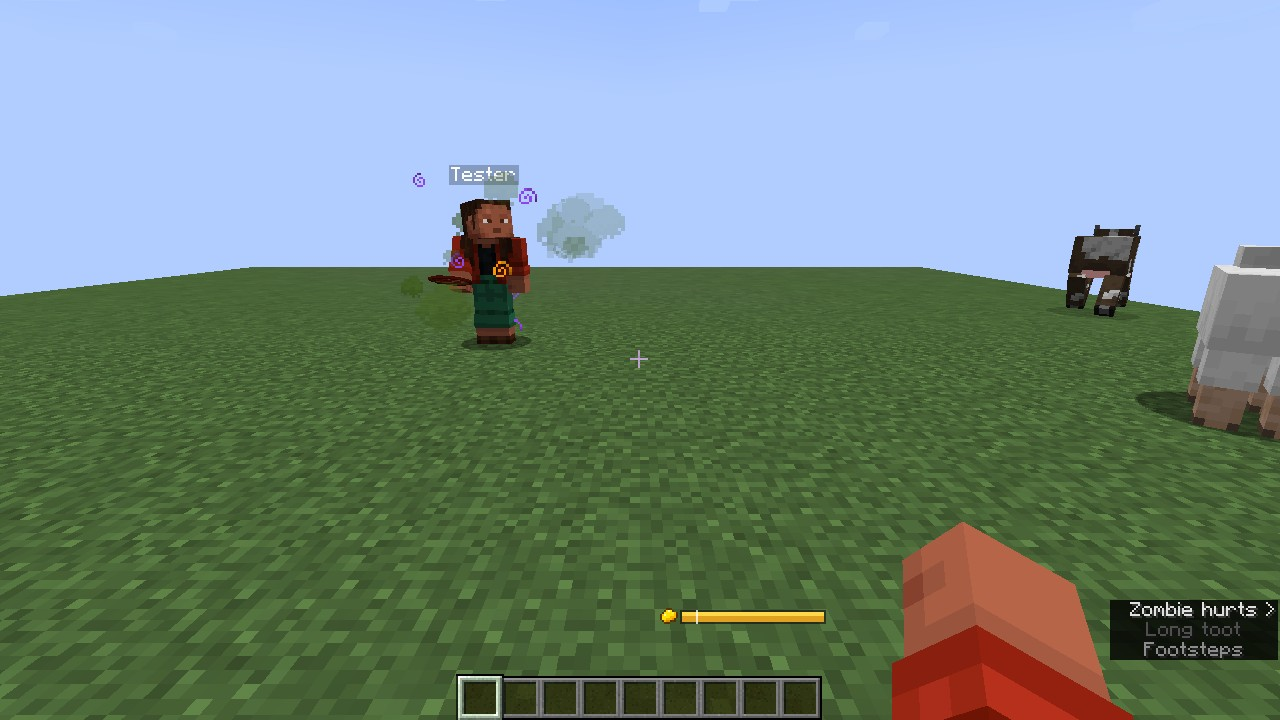
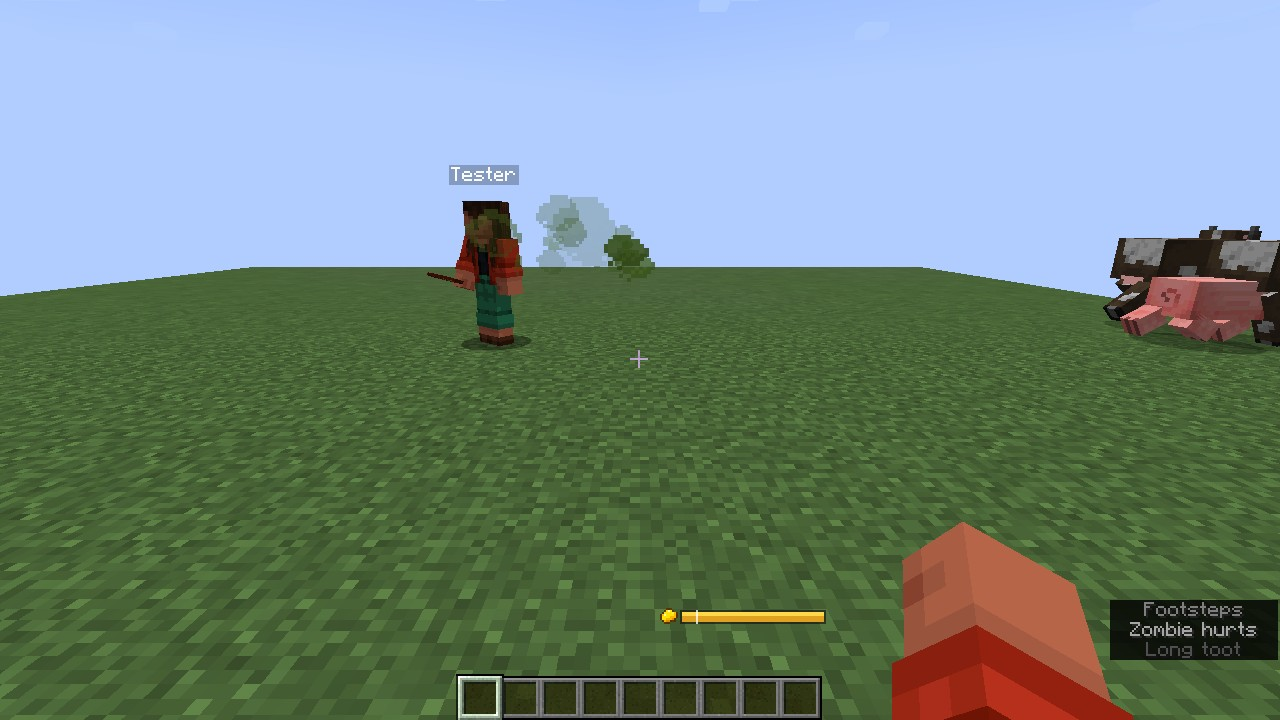
Big shared combo cloud, no effect swirls, listing media re-recorded on soft puffs only
- Combo: one large merged cloud spanning the players (30 + 22 per player big soft puffs in a dome, 3.5-4 s,
  rising), tinted with a blend of the members' colours pulled towards the gas green; ComboS2C carries the
  members; the server's area spans the players too (radius >= farthest player + 1.5, grows with N).
- Golden toot glows with pale-gold puffs instead of sparks; effects from cloud.effects hide their particles.
- duo.py: both players on the soft puff (no snowflakes), effects cleared before shots (the swirls came from the
  enchanted golden apple and test effects carried over between runs), the together shot framed from the front.
- Test rig: `/fart testcombo <player> <n>` stand-in participants, only with -Dfarmstead.testhooks on the server
  (-PtestHooks); -PclientXmx for many clients.
- GIFs, gallery, banner (GIF 3.5 MB), CurseForge gallery, wiki pages regenerated.

Changed region(s): [[0.8125, 0.3056, 1.0, 0.6111], [0.3125, 0.2444, 0.5312, 0.4889], [0.875, 0.825, 1.0, 0.9167]]

diff --git a/src/main/java/online/farmsteadminecraft/farttogether/client/Toots.java b/src/main/java/online/farmsteadminecraft/farttogether/client/Toots.java
@@ -101,8 +101,10 @@ public final class Toots {
                 SIZE[tier], JET_BLAST, new int[]{5}));
         }
         if ((flags & Proto.GOLDEN) != 0) {
-            CLOUDS.add(new Cloud(who, style.withShape(Style.Shape.SPARKS), new Random(seed ^ 0x6A09E667L), 3, hue, own,
-                1f, 0, new int[]{ticks + 6}));
+            // a few extra pale-gold puffs make it glow (soft puffs, no sparks: owner's rule for the default look)
+            Style shine = new Style(Style.ColorMode.SOLID, GOLD_LIGHT, GOLD_LIGHT, Style.Shape.PUFF, style.size(), 1f, 1f, 1f,
+                style.sound(), 1f, 1f, Style.Pose.NONE);
+            CLOUDS.add(new Cloud(who, shine, new Random(seed ^ 0x6A09E667L), 1, hue, own, 1.2f, 0, new int[]{ticks / 2 + 2}));
         }
         if (cloud != null && linger > 0 && radius > 0 && ClientConfig.LINGER.on()) {
             LINGERS.add(new Linger(cloud, radius, style, new Random(seed ^ 0x5DEECE66DL), hue, own, new int[]{linger}));
@@ -113,7 +115,7 @@ public final class Toots {
      * Fart Together: {@code count} players tooted together. The chorus (one more layered sound per player, up to
      * three), a ring of colourful puffs bursting out of the centre and the big shared cloud lingering there.
      */
-    public static void combo(Minecraft mc, int count, long seed, Vec3 pos, float radius, int linger) {
+    public static void combo(Minecraft mc, int count, long seed, Vec3 pos, float radius, int linger, int color) {
         if (mc.level == null) return;
         Random rnd = new Random(seed);
         float volume = ClientConfig.VOLUME.floatValue();
@@ -124,16 +126,27 @@ public final class Toots {
                 mc.level.playLocalSound(pos.x, pos.y, pos.z, event, SoundSource.PLAYERS, volume, 0.85f + 0.12f * i, false);
             }
         }
-        if (TestHooks.enabled()) FartTogether.LOGGER.info("test: combo count={} radius={} linger={}", count, radius, linger);
-        int ring = Math.max(1, Math.round(Math.min(40, 8 + 4 * count) * ClientConfig.PARTICLES.floatValue()));
-        for (int i = 0; i < ring; i++) {
-            double a = Math.PI * 2 * i / ring;
-            double speed = 0.04 + rnd.nextDouble() * 0.03;
-            puff(mc, pos.x, pos.y + 0.2, pos.z, Math.cos(a) * speed, 0.01 + rnd.nextDouble() * 0.015, Math.sin(a) * speed,
-                Colors.lerp(Colors.hue((float) i / ring), 0xFFFFFF, 0.45f), 1.6f, rnd);
+        if (TestHooks.enabled()) {
+            FartTogether.LOGGER.info("test: combo count={} radius={} linger={} color={}", count, radius, linger, Integer.toHexString(color));
         }
-        if (linger > 0 && radius > 0 && ClientConfig.LINGER.on()) {
-            LINGERS.add(new Linger(pos, radius, Style.SIMPLE, new Random(seed ^ 0x5DEECE66DL), rnd.nextFloat(), true, new int[]{linger}));
+        // one big merged cloud spanning the players: many large soft puffs filling a flattened dome around the centre,
+        // rising slowly and fading over three to four seconds (several times the volume of a single toot)
+        // the dome hugs the players: about the server's area, a little tighter so a camera next to them stays outside
+        double r = Math.min(6.0, Math.max(2.0, (radius > 0 ? radius : 2.5 + count) * 0.7));
+        // the players' colours, pulled towards the gas green so the shared cloud still reads as gas
+        int gas = Colors.lerp(color, Style.DEFAULT_COLOR, 0.45f);
+        int puffs = Math.round(Math.min(160, 30 + 22 * count) * ClientConfig.PARTICLES.floatValue());
+        for (int i = 0; i < puffs; i++) {
+            double x, y, z;
+            do {
+                x = rnd.nextDouble() * 2 - 1;
+                y = rnd.nextDouble();
+                z = rnd.nextDouble() * 2 - 1;
+            } while (x * x + y * y + z * z > 1);
+            int tint = Colors.lerp(gas, 0xFFFFFF, rnd.nextFloat() * 0.18f);
+            bigPuff(mc, pos.x + x * r, pos.y - 0.3 + y * r * 0.6, pos.z + z * r,
+                x * 0.01, 0.006 + rnd.nextDouble() * 0.01, z * 0.01, tint, 1.3f + rnd.nextFloat() * 0.7f, rnd,
+                70 + rnd.nextInt(14) + Math.min(40, linger / 4));
         }
     }
 
@@ -217,6 +230,18 @@ public final class Toots {
         if (particle == null) return;
         if (type != ParticleTypes.NOTE && type != ParticleTypes.HEART) tint(particle, color(s, c.hue(), r));
         particle.scale(s.size() * c.size());
+    }
+
+    /** A combo puff: like {@link #puff} but big and with its own lifetime. */
+    private static void bigPuff(Minecraft mc, double x, double y, double z, double dx, double dy, double dz, int rgb,
+                                float size, Random r, int life) {
+        if (mc.player != null && mc.options.getCameraType().isFirstPerson()
+            && mc.player.getEyePosition().distanceToSqr(x, y, z) < 2.2 * 2.2) return;
+        Particle particle = mc.particleEngine.createParticle(PUFF, x, y, z, dx, dy, dz);
+        if (particle == null) return;
+        tint(particle, rgb);
+        particle.scale(size);
+        particle.setLifetime(life);
     }
 
     /**

diff --git a/tools/duo.py b/tools/duo.py
@@ -51,7 +51,7 @@ A, B = "Tester", "Tester2"
 CFG = "farmstead_fart_together-client.toml"
 
 STYLE_A = {"color": '"pumpkin"', "particle": '"puff"', "size": "1.4", "amount": "1.6", "sound": '"trumpet"', "pose": '"classic"'}
-STYLE_B = {"color": '"lilac"', "particle": '"snow"', "size": "1.0", "amount": "1.4", "sound": '"squeaky"', "pose": '"hero"'}
+STYLE_B = {"color": '"lilac"', "particle": '"puff"', "size": "1.2", "amount": "1.4", "sound": '"squeaky"', "pose": '"hero"'}
 
 
 def client_file(style: dict, others: str = "theirs") -> str:
@@ -128,7 +128,7 @@ def main() -> int:
         cb = client(B, dir_b, ["-PclientDir=client2"])
         time.sleep(8)
 
-        for c in ("gamerule doMobSpawning false", "time set noon", "gamerule doDaylightCycle false", "weather clear",
+        for c in ("effect clear @a", "gamerule doMobSpawning false", "time set noon", "gamerule doDaylightCycle false", "weather clear",
                   f"fill -6 {Y - 1} -6 6 {Y - 1} 6 grass_block", f"fill -6 {Y} -6 6 {Y + 5} 6 air", "kill @e[type=!player]",
                   f"gamemode creative {A}", f"gamemode creative {B}"):
             rcon.cmd(c)
@@ -338,7 +338,7 @@ def m3(rcon, dir_a: Path, dir_b: Path, sa, sb, out: Path, server) -> None:
     rcon.cmd(f"fart charge {A} full")
     time.sleep(1)
     # a full hold takes 1.6 s: slow falling keeps Tester in the air that long (it wears off before the toot)
-    rcon.cmd(f"effect give {A} minecraft:slow_falling 3")
+    rcon.cmd(f"effect give {A} minecraft:slow_falling 3 0 true")  # hidden particles
     rcon.cmd(f"tp {A} 0.5 {Y + 9} 0.5 0 0")
     rcon.cmd(f"tp {B} 8.5 {Y} 0.5 90 -22")
     rec(dir_b, "jet", 4)
@@ -359,13 +359,16 @@ def m3(rcon, dir_a: Path, dir_b: Path, sa, sb, out: Path, server) -> None:
     rcon.cmd(f"tp {A} 0.5 {Y} 0.5 0 0")
     rcon.cmd(f"tp {B} 4.5 {Y} -0.5 90 10")
     rcon.cmd(f"gamemode survival {A}")
-    rcon.cmd(f"effect give {A} minecraft:hunger 3 255")
+    rcon.cmd(f"effect give {A} minecraft:hunger 3 255 true")
     time.sleep(3.2)
     rcon.cmd(f"item replace entity {A} hotbar.0 with minecraft:enchanted_golden_apple")
     hook(dir_a, "camera", "first")
     time.sleep(0.5)
     hook(dir_a, "use", "45")
     time.sleep(3.2)
+    # the apple's own effects (regeneration, absorption...) swirl around the player: not ours, cleared for the shot;
+    # the golden gas stays (it is the mod's flag, not an effect)
+    rcon.cmd(f"effect clear {A}")
     rcon.cmd(f"gamemode creative {A}")
     hook(dir_a, "camera", "back")
     rcon.cmd(f"fart charge {A} full")
@@ -376,6 +379,7 @@ def m3(rcon, dir_a: Path, dir_b: Path, sa, sb, out: Path, server) -> None:
     sb.shot("14-b-golden")
     time.sleep(3)
 
+    rcon.cmd("effect clear @a")
     print("15. under water")
     rcon.cmd(f"fill 7 {Y - 1} -5 17 {Y + 5} 5 glass")
     rcon.cmd(f"fill 8 {Y} -4 16 {Y + 4} 4 water")
@@ -390,23 +394,25 @@ def m3(rcon, dir_a: Path, dir_b: Path, sa, sb, out: Path, server) -> None:
     rcon.cmd(f"fill 7 {Y} -5 17 {Y + 5} 5 air")
     rcon.cmd(f"fill 7 {Y - 1} -5 17 {Y - 1} 5 grass_block")
 
+    rcon.cmd("effect clear @a")
     print("16. Fart Together: both at once")
-    rcon.cmd(f"tp {A} -1.0 {Y} 0.5 0 0")
-    rcon.cmd(f"tp {B} 2.0 {Y} 0.5 0 0")
+    # side by side facing the same way; Tester2's front camera looks back at both, the shared cloud rises behind them
+    rcon.cmd(f"tp {A} -0.4 {Y} 0.5 0 0")
+    rcon.cmd(f"tp {B} 1.4 {Y} 0.5 0 0")
     rcon.cmd(f"fart charge {A} full")
     rcon.cmd(f"fart charge {B} full")
     hook(dir_a, "camera", "back")
-    hook(dir_b, "camera", "back")
+    hook(dir_b, "camera", "front")
     time.sleep(1.5)
-    hook(dir_a, "toot", "900")
-    rec(dir_b, "together", 5)
-    hook(dir_b, "toot", "1000")
-    time.sleep(1.4)
+    rec(dir_b, "together", 6)
+    hook(dir_a, "toot", "1500")
+    hook(dir_b, "toot", "1600")
+    time.sleep(2.3)
     sb.shot("16-b-together")
     sa.shot("16-a-together")
-    time.sleep(1.5)
+    time.sleep(1.2)
     sb.shot("16-b-together-cloud")
-    time.sleep(2)
+    time.sleep(3)
 
     print("17-18. advancements, trades, loot")
     log = "".join(server.lines)

diff --git a/src/main/java/online/farmsteadminecraft/farttogether/net/Proto.java b/src/main/java/online/farmsteadminecraft/farttogether/net/Proto.java
@@ -61,10 +61,13 @@ public final class Proto {
 
     /**
      * Fart Together: {@code count} players tooted together near {@code x y z}; every receiver plays the chorus and
-     * draws the big shared cloud ({@code radius}, {@code lingerTicks}) from the same {@code seed}.
+     * draws the big shared cloud ({@code radius}, {@code lingerTicks}) from the same {@code seed}, tinted with a blend
+     * of the {@code members}' colours (at most {@link #MAX_MEMBERS} of them are sent).
      */
-    public record ComboS2C(int count, long seed, float x, float y, float z, float radius, int lingerTicks)
-        implements ToClient {}
+    public record ComboS2C(int count, long seed, float x, float y, float z, float radius, int lingerTicks,
+                           java.util.List<UUID> members) implements ToClient {}
+
+    public static final int MAX_MEMBERS = 8;
 
     /** This player's gas: {@code charge} of {@code max}; a toot needs {@code min} (0 when gas is not required). */
     public record ChargeS2C(int charge, int max, int min, boolean enabled) implements ToClient {}
@@ -116,6 +119,9 @@ public final class Proto {
             buf.writeFloat(m.z());
             buf.writeFloat(m.radius());
             buf.writeVarInt(m.lingerTicks());
+            int n = Math.min(MAX_MEMBERS, m.members().size());
+            buf.writeVarInt(n);
+            for (int i = 0; i < n; i++) buf.writeUUID(m.members().get(i));
         } else if (msg instanceof ChargeS2C m) {
             buf.writeByte(CHARGE);
             buf.writeVarInt(m.charge());
@@ -154,8 +160,7 @@ public final class Proto {
                 case HELLO -> new HelloS2C(buf.readVarInt(), buf.readVarInt(), buf.readVarInt());
                 case TOOT -> new TootS2C(buf.readUUID(), buf.readVarInt(), buf.readLong(), buf.readFloat(), buf.readFloat(),
                     buf.readFloat(), buf.readFloat(), buf.readVarInt(), buf.readVarInt());
-                case COMBO -> new ComboS2C(buf.readVarInt(), buf.readLong(), buf.readFloat(), buf.readFloat(), buf.readFloat(),
-                    buf.readFloat(), buf.readVarInt());
+                case COMBO -> readCombo(buf);
                 case STYLE -> new StyleS2C(buf.readUUID(), Style.read(buf));
                 case CHARGE -> new ChargeS2C(buf.readVarInt(), buf.readVarInt(), buf.readVarInt(), buf.readBoolean());
                 default -> null;
@@ -163,6 +168,17 @@ public final class Proto {
         } catch (RuntimeException e) {
             return null;
         }
+    }
+
+    private static ComboS2C readCombo(FriendlyByteBuf buf) {
+        int count = buf.readVarInt();
+        long seed = buf.readLong();
+        float x = buf.readFloat(), y = buf.readFloat(), z = buf.readFloat(), radius = buf.readFloat();
+        int linger = buf.readVarInt();
+        int n = Math.min(MAX_MEMBERS, buf.readVarInt());
+        java.util.List<UUID> members = new java.util.ArrayList<>();
+        for (int i = 0; i < n; i++) members.add(buf.readUUID());
+        return new ComboS2C(count, seed, x, y, z, radius, linger, members);
     }
 
     private static byte[] bytes(FriendlyByteBuf buf) {

diff --git a/src/main/java/online/farmsteadminecraft/farttogether/server/Together.java b/src/main/java/online/farmsteadminecraft/farttogether/server/Together.java
@@ -18,7 +18,8 @@ import net.minecraft.world.phys.Vec3;
  * the advancements for 2, 4 and 8. Server thread only.
  */
 public final class Together {
-    private record Toot(UUID who, ServerLevel level, Vec3 pos, long at) {}
+    /** {@code fake}: a stand-in participant from {@code /fart testcombo} (test rig only, see {@link #injectFake}). */
+    private record Toot(UUID who, ServerLevel level, Vec3 pos, long at, boolean fake) {}
 
     private static final List<Toot> RECENT = new ArrayList<>();
 
@@ -33,18 +34,24 @@ public final class Together {
         long window = (long) (ServerConfig.TOGETHER_WINDOW.value() * 1000);
         RECENT.removeIf(t -> nowMillis - t.at() > window);
         RECENT.removeIf(t -> t.who().equals(player.getUUID()));
-        RECENT.add(new Toot(player.getUUID(), level, pos, nowMillis));
+        RECENT.add(new Toot(player.getUUID(), level, pos, nowMillis, false));
         double r = ServerConfig.TOGETHER_RADIUS.value();
         Map<UUID, ServerPlayer> members = new LinkedHashMap<>();
+        int fakes = 0;
         Vec3 sum = Vec3.ZERO;
         for (Toot t : RECENT) {
             if (t.level() != level || t.pos().distanceToSqr(pos) > r * r) continue;
+            if (t.fake()) {
+                fakes++;
+                sum = sum.add(t.pos());
+                continue;
+            }
             ServerPlayer p = level.getServer().getPlayerList().getPlayer(t.who());
             if (p == null || !p.isAlive() || !TootServer.allowed(p, Perm.TOGETHER)) continue;
             members.put(t.who(), p);
             sum = sum.add(t.pos());
         }
-        int n = members.size();
+        int n = members.size() + fakes;
         if (n < 2) return new Combo(1, List.of(player), pos);
         return new Combo(n, new ArrayList<>(members.values()), sum.scale(1.0 / n));
     }
@@ -65,6 +72,18 @@ public final class Together {
             Awards.TOGETHER_2.grant(p);
             if (combo.count() >= 4) Awards.TOGETHER_4.grant(p);
             if (combo.count() >= 8) Awards.TOGETHER_8.grant(p);
+        }
+    }
+
+    /**
+     * Test rig only ({@code /fart testcombo}, registered with {@code -Dfarmstead.testhooks=true}): {@code count}
+     * stand-in participants "toot" now in a ring around {@code centre}, so the next real toot there makes a combo of
+     * real + stand-in players. Stand-ins count towards N but get no messages, glow or advancements.
+     */
+    public static void injectFake(ServerLevel level, Vec3 centre, int count, long nowMillis) {
+        for (int i = 0; i < count; i++) {
+            double a = Math.PI * 2 * i / Math.max(1, count);
+            RECENT.add(new Toot(UUID.randomUUID(), level, centre.add(Math.cos(a) * 2, 0, Math.sin(a) * 2), nowMillis, true));
         }
     }
 

diff --git a/src/main/java/online/farmsteadminecraft/farttogether/server/TootServer.java b/src/main/java/online/farmsteadminecraft/farttogether/server/TootServer.java
@@ -160,18 +160,26 @@ public final class TootServer {
         player.connection.send(new net.minecraft.network.protocol.game.ClientboundSetEntityMotionPacket(player));
     }
 
-    /** A combo grew: one shared cloud at the players' centre, bigger with every player, and the chorus. */
+    /**
+     * A combo grew: one shared cloud at the players' centre that spans all of them (and grows with every player), the
+     * chorus, and the clients' big merged puff cloud of the same size.
+     */
     private static void combo(ServerPlayer player, ServerLevel level, Together.Combo combo, boolean water) {
-        double radius = 0;
-        int linger = 0;
-        if (ServerConfig.CLOUD.on() && !water) {
-            radius = Math.min(12.0, meta(player, Meta.CLOUD_RADIUS) * (1 + 0.35 * combo.count()));
-            linger = (int) Math.round(ServerConfig.CLOUD_SECONDS.value() * 20 * 1.5);
-            GasClouds.add(level, combo.centre(), radius, linger, player.getUUID());
-        }
         Vec3 c = combo.centre();
+        double span = 0;
+        for (ServerPlayer p : combo.players()) span = Math.max(span, Math.sqrt(p.position().distanceToSqr(c.x, p.getY(), c.z)));
+        double radius = Math.min(12.0, Math.max(span + 1.5, meta(player, Meta.CLOUD_RADIUS) * (1 + 0.5 * combo.count())));
+        // the visible cloud lingers 3.5 s and a little longer with more players; the server's area as long
+        int linger = Math.min(140, 50 + 10 * combo.count());
+        if (ServerConfig.CLOUD.on() && !water) GasClouds.add(level, c, radius, linger, player.getUUID());
+        else {
+            radius = 0;
+            linger = 0;
+        }
+        java.util.List<java.util.UUID> members = new java.util.ArrayList<>();
+        for (ServerPlayer p : combo.players()) members.add(p.getUUID());
         toNear(player, new Proto.ComboS2C(combo.count(), RANDOM.nextLong(), (float) c.x, (float) c.y, (float) c.z,
-            (float) radius, linger));
+            (float) radius, linger, members));
         Together.celebrate(combo);
     }
 
@@ -296,6 +304,11 @@ public final class TootServer {
         /*return player.level();
         *///?} else
         return player.serverLevel();
+    }
+
+    /** {@code /fart testcombo}: stand-in participants around {@code player} (test rig only). */
+    public static void injectFakeToots(ServerPlayer player, int count) {
+        Together.injectFake(level(player), player.position().add(0, 0.75, 0), count, now());
     }
 
     private static long now() {

diff --git a/src/main/java/online/farmsteadminecraft/farttogether/server/FartCommands.java b/src/main/java/online/farmsteadminecraft/farttogether/server/FartCommands.java
@@ -20,6 +20,7 @@ import online.farmsteadminecraft.farttogether.content.Content;
  */
 public final class FartCommands {
     private static final String K = "command.farmstead_fart_together.";
+    private static final boolean TEST = Boolean.getBoolean("farmstead.testhooks");
 
     private FartCommands() {
     }
@@ -34,7 +35,18 @@ public final class FartCommands {
                     .then(Commands.argument("amount", IntegerArgumentType.integer(0, 10000))
                         .executes(c -> charge(c, IntegerArgumentType.getInteger(c, "amount"))))))
             .then(Commands.literal("toggle").requires(s -> can(s, Perm.COMMAND_TOGGLE))
-                .then(Commands.argument("targets", EntityArgument.players()).executes(FartCommands::toggle)));
+                .then(Commands.argument("targets", EntityArgument.players()).executes(FartCommands::toggle)))
+            // test rig only (-Dfarmstead.testhooks=true): stand-in participants for a big Fart Together combo
+            .then(Commands.literal("testcombo").requires(s -> TEST && can(s, Perm.COMMAND_CHARGE))
+                .then(Commands.argument("target", EntityArgument.player())
+                    .then(Commands.argument("extra", IntegerArgumentType.integer(1, 16)).executes(c -> {
+                        ServerPlayer target = EntityArgument.getPlayer(c, "target");
+                        int extra = IntegerArgumentType.getInteger(c, "extra");
+                        TootServer.injectFakeToots(target, extra);
+                        c.getSource().sendSuccess(() -> Component.literal("test: " + extra + " stand-in toots around "
+                            + target.getName().getString() + " (toot within the combo window)"), false);
+                        return extra;
+                    }))));
     }
 
     private static boolean can(CommandSourceStack source, Perm perm) {

diff --git a/src/main/java/online/farmsteadminecraft/farttogether/client/ClientNet.java b/src/main/java/online/farmsteadminecraft/farttogether/client/ClientNet.java
@@ -209,8 +209,18 @@ public final class ClientNet {
                 new net.minecraft.world.phys.Vec3(toot.x(), toot.y(), toot.z()), toot.radius(), toot.lingerTicks(), toot.flags());
         } else if (msg instanceof Proto.ComboS2C combo) {
             if (mc.level == null || mc.player == null) return;
+            // the shared cloud takes a blend of the members' colours (as this screen shows their styles)
+            int r = 0, g = 0, b = 0, n = 0;
+            for (UUID m : combo.members()) {
+                int rgb = styleFor(mc, m, m.equals(mc.player.getUUID())).color();
+                r += (rgb >> 16) & 255;
+                g += (rgb >> 8) & 255;
+                b += rgb & 255;
+                n++;
+            }
+            int blend = n == 0 ? Style.DEFAULT_COLOR : ((r / n) << 16) | ((g / n) << 8) | (b / n);
             Toots.combo(mc, combo.count(), combo.seed(), new net.minecraft.world.phys.Vec3(combo.x(), combo.y(), combo.z()),
-                combo.radius(), combo.lingerTicks());
+                combo.radius(), combo.lingerTicks(), blend);
         }
     }
 

diff --git a/tools/brand.py b/tools/brand.py
@@ -125,8 +125,9 @@ def banner(clips: list[str]) -> None:
             im.alpha_composite(l2, (int(w * 0.03), (h - l2.height) // 2))
             out.append(im.convert("RGB"))
     big[0].save(MEDIA / "banner.webp", save_all=True, append_images=big[1:], duration=100, loop=0, quality=80)
-    pal = [im.quantize(colors=200, method=Image.Quantize.MEDIANCUT, dither=Image.Dither.NONE) for im in small]
-    pal[0].save(MEDIA / "banner.gif", save_all=True, append_images=pal[1:], duration=100, loop=0, optimize=True)
+    # CurseForge: keep the GIF near 4 MB (every other frame at 5 fps, a smaller palette)
+    pal = [im.quantize(colors=96, method=Image.Quantize.MEDIANCUT, dither=Image.Dither.NONE) for im in small[::2]]
+    pal[0].save(MEDIA / "banner.gif", save_all=True, append_images=pal[1:], duration=200, loop=0, optimize=True)
     for name in ("banner.webp", "banner.gif"):
         print(name, (MEDIA / name).stat().st_size // 1024, "KB")
 

diff --git a/src/main/java/online/farmsteadminecraft/farttogether/server/GasClouds.java b/src/main/java/online/farmsteadminecraft/farttogether/server/GasClouds.java
@@ -130,7 +130,10 @@ public final class GasClouds {
                 if (!ServerConfig.CLOUD_PLAYERS.on() || TootServer.allowed(target, Perm.CLOUD_BYPASS)) continue;
                 if (ServerConfig.RESPECT_PVP.on() && owner != null && !owner.canHarmPlayer(target)) continue;
             }
-            for (MobEffectInstance fx : effects) e.addEffect(new MobEffectInstance(fx));
+            // no swirling effect particles around the player: the gas cloud itself is the visual
+            for (MobEffectInstance fx : effects) {
+                e.addEffect(new MobEffectInstance(fx.getEffect(), fx.getDuration(), fx.getAmplifier(), false, false, true));
+            }
         }
     }
 
